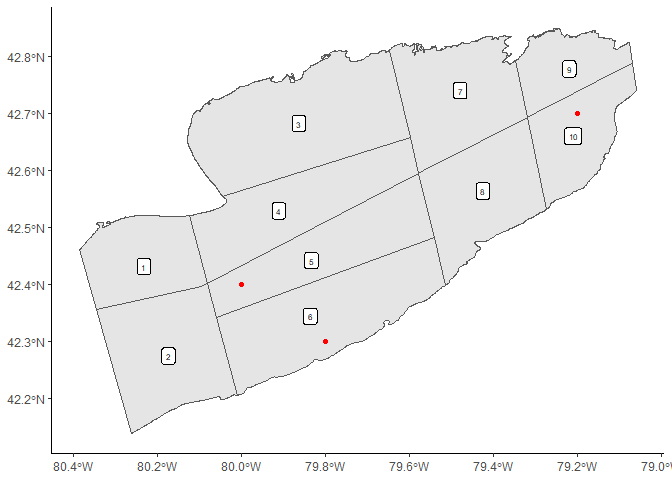
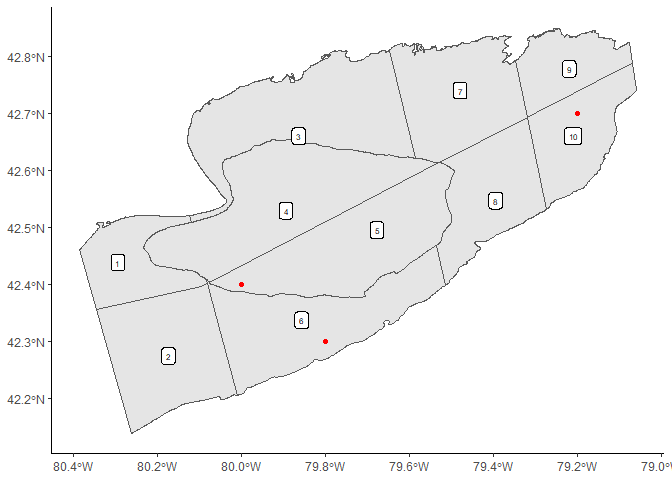
applies code formating to existing code chunks

diff --git a/README.md b/README.md
@@ -43,14 +43,14 @@ shape_ebstrata
 #> Bounding box:  xmin: -80.38612 ymin: 42.13901 xmax: -79.05942 ymax: 42.85076
 #> Geodetic CRS:  WGS 84
 #>    STRATUM area_km2                       geometry
-#> 1        1      339 POLYGON ((-80.08151 42.4017...
+#> 1        1      261 POLYGON ((-80.08151 42.4017...
 #> 2        2      501 POLYGON ((-80.34535 42.3561...
-#> 3        3      757 POLYGON ((-79.64922 42.8115...
-#> 4        4      498 POLYGON ((-79.57869 42.596,...
-#> 5        5      445 POLYGON ((-80.08151 42.4017...
-#> 6        6      618 POLYGON ((-79.54181 42.4831...
-#> 7        7      465 POLYGON ((-79.32086 42.6942...
-#> 8        8      438 POLYGON ((-79.57869 42.596,...
+#> 3        3      649 POLYGON ((-79.93737 42.6514...
+#> 4        4      691 POLYGON ((-79.52855 42.6150...
+#> 5        5      579 POLYGON ((-80.07649 42.4037...
+#> 6        6      548 POLYGON ((-80.07649 42.4037...
+#> 7        7      459 POLYGON ((-79.32086 42.6942...
+#> 8        8      375 POLYGON ((-79.52855 42.6150...
 #> 9        9      229 POLYGON ((-79.06974 42.7886...
 #> 10      10      305 POLYGON ((-79.32086 42.6942...
 # plot(shape_ebstrata)
@@ -64,8 +64,10 @@ base_ebstrata
 ### Add custom points to base ggplot
 
 ``` r
-pointdata <- data.frame(LON = c(-79.8, -80, -79.2), LAT = c(42.3, 42.4, 42.7))
-pointdata <- st_as_sf(pointdata, coords = c("LON", "LAT"), crs=4269)
+pointdata <-
+  data.frame(LON = c(-79.8,-80,-79.2),
+             LAT = c(42.3, 42.4, 42.7))
+pointdata <- st_as_sf(pointdata, coords = c("LON", "LAT"), crs = 4269)
 base_ebstrata + geom_sf(data = pointdata, color = 'red')
 ```
 
@@ -74,7 +76,7 @@ base_ebstrata + geom_sf(data = pointdata, color = 'red')
 ### Combining multiple layers
 
 ``` r
-base_erieshore + geom_sf(data=shape_ebstrata, aes(fill = STRATUM))
+base_erieshore + geom_sf(data = shape_ebstrata, aes(fill = STRATUM))
 ```
 
 <img src="man/figures/README-multiple layers-1.png" width="60%" />
